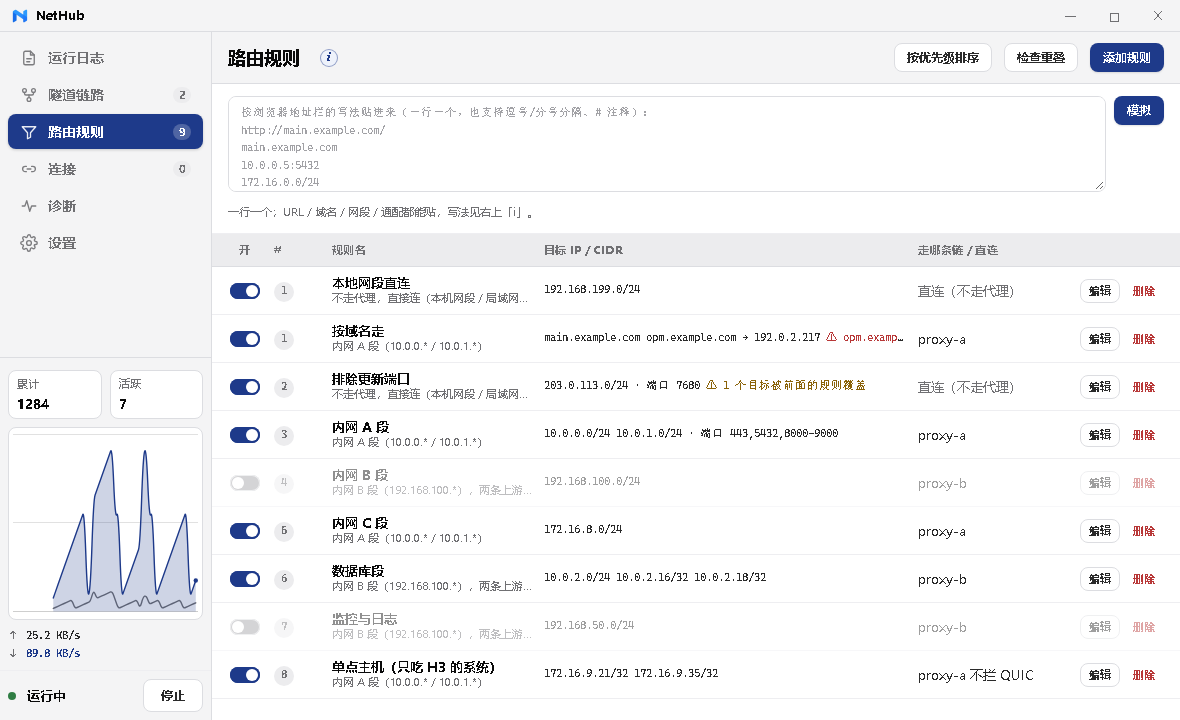
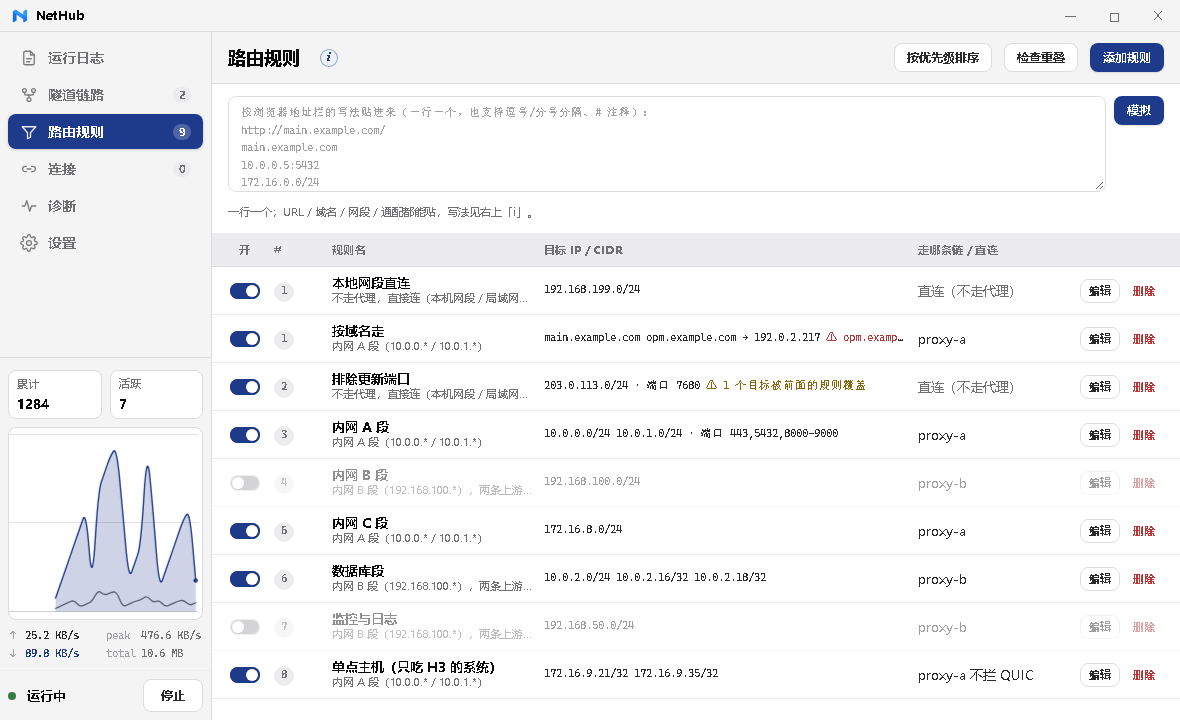
流量图：抄 Clash Verge 的滑入动画 + 读数补 peak/total
调研（clash-verge-rev 的 traffic-graph.tsx）：它顺滑的核心**不是插值**——
两边都是"过中点的二次贝塞尔"。差别是三条：
  1) 每 1 秒 push 一个点后，用 canvas.animate() 把整块画布平移一格（150ms，合成器上跑）；
  2) 30 点 / 310px = 每格 10px（我们 60 点 / 190px = 3px，密 3 倍）；
  3) 只画线、线宽 4px、无面积填充。

按用户要求只抄第 1 条：

- 画布 CSS 宽 = 容器内容宽 × (slots+1)/slots（多出的一格是"新点滑进来的入口"），
  由 .side-spark 的 overflow:hidden 裁掉；绘制时最新点贴 plotW，动画把它左移一格后
  正好落在可见区右边缘 —— 与 Verge 的坐标推导一致。
- slideTraffic()：cancel 上一拍（fill:forwards 被取消后 transform 回到 0，画面才连续）→
  重画 → animate 0 → -1 格、260ms linear。
- 托盘冻结时自己 cancel（WAAPI 不受 html.is-tray 的 CSS animation:none 管）；
  prefers-reduced-motion 下不播。
- TRAFFIC_DOT_MERGE = 2：每 2 个采样合成一个点（取 max，峰值不被平均掉）——
  不然每格只有 3px，动画几乎看不出来。改回 1 就是 60 点原始粒度。

读数从 2 槽改成 2×2：左列 ↑/↓（此刻速率），右列 peak/total（本窗口单秒峰值 / 窗口内收发合计）。
四个数值各带 id、JS 只改文本（innerHTML 重建会让定宽列每拍重排）。

门禁同步：
- "方形"改成量图框（.side-spark）—— 画布**刻意**比图框宽一格，钉画布会误报；
- 读数断言改成 4 槽 + 2×2 几何；读数不再用 innerHTML 覆盖（那会把 4 槽压回 2 槽）；
- .side/.side-dash/.side-spark 补 min-width:0 —— 画布多一格会通过 flex item 的
  auto min-width 把整条侧栏撑到 500+ px（这次踩到了）。

Changed region(s): [[0.0305, 0.6111, 0.1831, 0.9167], [0.0915, 0.8861, 0.1525, 0.9167]]

diff --git a/frontend/app.js b/frontend/app.js
@@ -717,6 +717,11 @@ function setTargetProbing(on, count) {
 // 纵轴一格 = 256 KB/s（不写刻度字）：线不是用来读精确值的，是让"这段比刚才忙"一眼可见。
 // 现场日常几百 K，所以平时就是"0 + 一条"两行线；峰值超过 4 格就把步长翻倍（条数封在 5 条以内）。
 const TRAFFIC_STEP = 256 * 1024;
+// 每个可见点合并几个采样。
+//   1 = 60 点 / 60 秒（原始粒度）—— 每格只有约 3px，滑入动画几乎看不出来；
+//   2 = 30 点 / 60 秒 —— 和 Clash Verge 同密度（它 30 点、每格 10px），每格约 6px，
+//       动画才看得出"在走"，曲线也更平。合并取**最大值**：峰值不许被平均掉。
+const TRAFFIC_DOT_MERGE = 2;
 let trafficView = null;
 let trafficBusy = false;
 
@@ -729,14 +734,21 @@ async function loadTraffic() {
     const v = await call('GetTraffic');
     if (!v) return;
     trafficView = v;
-    drawTraffic();
-    const rate = document.getElementById('trafficRate');
-    if (rate) {
-      // 槽内是「箭头列（定宽）+ 数字列（左对齐）」——箭头位置和数字起始位都不随位数变
-      //（归零时 fmtRate 给“—”也不会把箭头往右拉）。**上行在上、下行在下**（用户要求颠倒）。
-      rate.innerHTML = '<span class="tr-up"><i>↑</i><b>' + fmtRate(trafficLast(v).up) + '</b></span>' +
-                       '<span class="tr-down"><i>↓</i><b>' + fmtRate(trafficLast(v).down) + '</b></span>';
+    drawTraffic(true);          // true = 数据推进一步，画完播一格滑入动画
+    const last = trafficLast(v);
+    // 这张图窗口内的两个汇总（与图同源，读图就能对上）：
+    //   peak  = 单秒最大速率（上下行取大者）；total = 窗口内收发合计。
+    let peak = 0, total = 0;
+    for (const p of (v.series || [])) {
+      const pt = trafficPoint(p, !!v.countDirect);
+      peak = Math.max(peak, pt.up, pt.down);
+      total += pt.up + pt.down;
     }
+    // 只改文本、不重建 DOM：定宽列每拍重排会抖（箭头/标签位置都不许动）。
+    setText('rateUp', fmtRate(last.up));
+    setText('rateDown', fmtRate(last.down));
+    setText('ratePeak', fmtRate(peak));
+    setText('rateTotal', fmtBytes(total));
   } catch (e) {
     /* 老桥/探针没这个方法：图留白就好，不报错（与 InitialTheme 同样处理） */
   } finally {
@@ -770,12 +782,47 @@ function trafficColor(name, fallback) {
   return v || fallback;
 }
 
-function drawTraffic() {
+/* 滑入动画（抄 Clash Verge 的做法）：画布**比容器宽一格**，
+   每来一拍就把整块往左滑一格（150~260ms）—— 新点从右边缘滑进来，而不是整条瞬间重画。
+   为什么是它：Verge 顺滑的核心不是插值（我们两边都是"过中点二次贝塞尔"），
+   而是这条合成器上的平移动画。**不要**改成每帧重绘，那会把 CPU 从"每秒一次"变成"每秒 60 次"。 */
+let trafficAnim = null;
+function slideTraffic(cv, slots, animate) {
+  // 上一拍的动画先收掉：fill:forwards 被 cancel 后 transform 回到 0，接着这次重画才是连续的一帧
+  if (trafficAnim) { try { trafficAnim.cancel(); } catch (e) {} trafficAnim = null; }
+  if (!animate || !cv || typeof cv.animate !== 'function') return;
+  if (trayFrozen) return;                                   // 托盘里没人看（WAAPI 不受 is-tray 的 CSS 影响，得自己停）
+  try {
+    if (window.matchMedia && window.matchMedia('(prefers-reduced-motion: reduce)').matches) return;
+  } catch (e) { /* 老引擎没有 matchMedia：照常动 */ }
+  const pct = 100 / (slots + 1);                            // 正好一格（画布共 slots+1 格）
+  trafficAnim = cv.animate(
+    [{ transform: 'translateX(0)' }, { transform: 'translateX(-' + pct + '%)' }],
+    { duration: 260, easing: 'linear', fill: 'forwards' }
+  );
+}
+
+function drawTraffic(animate) {
   const cv = document.getElementById('trafficCanvas');
   const v = trafficView;
   if (!cv || !v) return;
-  const w = cv.clientWidth, h = cv.clientHeight;
-  if (!w || !h) return; // 顶栏还没布局出来（很短的启动窗口）
+  const h = cv.clientHeight;
+  if (!h) return; // 还没布局出来（很短的启动窗口）
+
+  // 画布 CSS 宽 = 容器内容宽 × (slots+1)/slots：多出的一格是"新点滑进来的入口"，
+  // 由 .side-spark 的 overflow:hidden 裁掉。
+  // 可见格数 = 窗口秒数 / 合并比（merge=2 时 60 秒 → 30 格）
+  const slots = Math.max(Math.ceil(Math.max(Number(v.window) || 0, 2) / TRAFFIC_DOT_MERGE), 2);
+  const box = cv.parentElement;
+  if (box) {
+    const cs = getComputedStyle(box);
+    // clientWidth **已经排除边框**（= 内容 + padding），所以这里只扣 padding，别再扣 border 一次
+    const inner = box.clientWidth - parseFloat(cs.paddingLeft) - parseFloat(cs.paddingRight);
+    const cssW = Math.max(60, Math.round(inner * (slots + 1) / slots));
+    if (cv.style.width !== cssW + 'px') cv.style.width = cssW + 'px';
+  }
+  const w = cv.clientWidth;
+  if (!w) return;
   const dpr = window.devicePixelRatio || 1;
   const pw = Math.round(w * dpr), ph = Math.round(h * dpr);
   if (cv.width !== pw || cv.height !== ph) { cv.width = pw; cv.height = ph; }
@@ -795,7 +842,8 @@ function drawTraffic() {
   const zeroY = Math.round(h - DOT_R - 0.6) - 0.5;
   const topY = Math.min(DOT_R + 0.4, zeroY - 8);
 
-  const pts = (v.series || []).map((p) => trafficPoint(p, !!v.countDirect));
+  const rawPts = (v.series || []).map((p) => trafficPoint(p, !!v.countDirect));
+  const pts = mergeTraffic(rawPts, TRAFFIC_DOT_MERGE);
 
   // 纵轴：一格 = TRAFFIC_STEP，上限取到整数格（**不按峰值自适应** ——
   // 峰值跟上限走的话线数永远不变，"线变多"就表达不出"流量涨了"）。
@@ -812,8 +860,9 @@ function drawTraffic() {
   // 旧写法是曲线画到 w、点画在 w-DOT_R 上 —— 点比线末端偏左 2.2px，
   // 值上下跳的时候一眼就看出"点没长在线上"（2026-11-27 用户报的）。
   const plotW = w - DOT_R;
-  const slots = Math.max(Number(v.window) || pts.length, 2);
-  const step = plotW / (slots - 1);
+  // 画布宽 = (slots+1) 格，所以一格 = plotW/(slots+1)；绘制时最新点贴在 plotW 上，
+  // 动画把整块左移一格后，它正好落到可见区的右边缘。
+  const step = plotW / (slots + 1);
   const xOf = (i) => plotW - (pts.length - 1 - i) * step;
   const yOf = (val) => zeroY - Math.min(Number(val) || 0, max) / max * (zeroY - topY);
 
@@ -867,6 +916,29 @@ function drawTraffic() {
   g.arc(plotW, yOf(pts[pts.length - 1].down), DOT_R, 0, Math.PI * 2);
   g.fillStyle = colDown;
   g.fill();
+
+  // 画完再滑：内容已经是"新的一帧"，动画负责把观众的视线从上一格带过去。
+  slideTraffic(cv, slots, animate);
+}
+
+/* 把窗口内的原始采样按 n 个一组合并（取上下行最大值）——用于让"每格"更宽、曲线更平。 */
+function mergeTraffic(pts, n) {
+  if (!(n > 1) || pts.length <= n) return pts;
+  const out = [];
+  // 从**最新**往回分组，保证最后一点永远是"刚刚这一秒"，不会因为窗口长度不是整数倍而错位
+  for (let end = pts.length; end > 0; end -= n) {
+    const from = Math.max(0, end - n);
+    let up = 0, down = 0;
+    for (let i = from; i < end; i++) { up = Math.max(up, pts[i].up); down = Math.max(down, pts[i].down); }
+    out.unshift({ up, down });
+  }
+  return out;
+}
+
+/* 只改一个元素的文本（不存在就跳过）：流量读数每拍都要刷，innerHTML 重建会让定宽列重排。 */
+function setText(id, txt) {
+  const e = document.getElementById(id);
+  if (e) e.textContent = txt;
 }
 
 /* canvas 不认 color-mix：把 --ink 换算成"固定透明度的墨色"（style.css 里是 #0a0a0a / #fafafa）。 */
@@ -3086,6 +3158,8 @@ function freezeForTray() {
   if (trayFrozen) return;
   trayFrozen = true;
   document.documentElement.classList.add('is-tray');
+  // 流量图那条滑入动画是 Web Animations（不受 html.is-tray 的 `animation:none` 管），自己收掉
+  if (trafficAnim) { try { trafficAnim.cancel(); } catch (e) {} trafficAnim = null; }
   pauseLoops();
 }
 

diff --git a/frontend/style.css b/frontend/style.css
@@ -222,6 +222,9 @@ code, .mono { font-family: var(--font-mono); }
 .side {
   flex: 0 0 var(--side-w);
   display: flex; flex-direction: column;
+  /* min-width:0 必须写：作为 flex item 的 auto 最小宽度会等于内容最小宽度，
+     而流量画布是**故意比容器宽一格**的（滑入动画），不写就会被它撑到 500+ px。 */
+  min-width: 0;
   min-height: 0;
   border-right: 1px solid var(--hairline);
   background: var(--canvas-soft);
@@ -268,6 +271,7 @@ code, .mono { font-family: var(--font-mono); }
 .side-dash {
   margin-top: auto;
   display: flex; flex-direction: column; gap: var(--s2);
+  min-width: 0;                    /* 同上：别让里面的画布把这一列撑开 */
   padding: var(--s3) var(--s2) var(--s2);
   border-top: 1px solid var(--hairline);
 }
@@ -287,19 +291,35 @@ code, .mono { font-family: var(--font-mono); }
 .side-spark {
   width: 100%; height: 120px;      /* 兜底高度：JS 没跑起来（或还没布局）时不至于塌成一条 */
   display: flex; padding: 4px;
+  /* 画布比容器**宽一格**（见 app.js 的滑入动画）：多出来的那格必须裁掉 */
+  overflow: hidden;
+  min-width: 0;
   background: var(--card); border: 1px solid var(--hairline); border-radius: var(--r-input);
 }
-.side-spark > canvas { flex: 1 1 0; min-width: 0; width: 100%; height: 100%; display: block; }
+/* 宽度由 app.js 按 slots 算好写进 style.width（= 容器内容宽 × (slots+1)/slots），
+   这里**不能**写 flex:1 或 width:100% —— 那会把多出来的一格又压回去，动画就没内容可滑了。 */
+.side-spark > canvas { flex: 0 0 auto; min-width: 0; height: 100%; display: block; }
 
-/* 速率读数：上行在上、下行在下（每行「箭头列 + 数字列」，箭头位置不随位数变） */
+/* 速率读数：2×2 —— 左列 ↑/↓（此刻速率，上行在上）、右列 peak/total（本窗口峰值与合计）。
+   两列各自「标签列定宽 + 数字列左对齐」：位数变了、标签长短不同（peak/total），
+   数字的起始位都不动。 */
 .side-rate {
-  display: flex; flex-direction: column; gap: 1px; padding: 0 2px;
+  display: grid;
+  grid-template-columns: auto auto;
+  justify-content: space-between;
+  column-gap: var(--s2); row-gap: 1px;
+  padding: 0 2px;
   font-family: var(--font-mono); font-size: var(--fs-xs); color: var(--muted);
   white-space: nowrap;
 }
-.side-rate span { display: inline-flex; align-items: center; gap: 6px; }
-.side-rate i { flex: 0 0 auto; width: 10px; font-style: normal; color: var(--muted); }
-.side-rate b { font-weight: 600; font-variant-numeric: tabular-nums; text-align: left; }
+.side-rate span { display: inline-flex; align-items: center; gap: 5px; min-width: 0; }
+.side-rate i { flex: 0 0 auto; font-style: normal; color: var(--muted-soft); }
+.side-rate .tr-up i, .side-rate .tr-down i { width: 10px; }        /* ↑ ↓ */
+.side-rate .tr-peak i, .side-rate .tr-total i { width: 5ch; }      /* peak / total 定宽 → 数字起点对齐 */
+.side-rate b {
+  font-weight: 600; font-variant-numeric: tabular-nums; text-align: left;
+  min-width: 0; overflow: hidden; text-overflow: ellipsis;
+}
 /* 下行主色（与曲线同色）、上行中性色 —— 不拿警告色画数据 */
 .side-rate .tr-up b { color: var(--body); }
 .side-rate .tr-down b { color: var(--primary); }

diff --git a/frontend/index.html b/frontend/index.html
@@ -73,7 +73,14 @@
       <!-- 底/边由这层 div 承载，canvas 只画曲线：drawTraffic 用 clientWidth/clientHeight 定画布，
            内边距写在 canvas 上会把曲线画到边框底下 -->
       <div class="side-spark" id="sparkBox"><canvas id="trafficCanvas" aria-label="实时流量曲线"></canvas></div>
-      <div class="side-rate" id="trafficRate"><span class="tr-up"><i>↑</i><b>—</b></span><span class="tr-down"><i>↓</i><b>—</b></span></div>
+      <!-- 读数 2×2：左列 ↑/↓（此刻速率）、右列 peak/total（这张图窗口里的峰值与合计）。
+           为什么四个数值槽各自带 id、由 JS 只改文本：innerHTML 重建会让定宽列每拍重排。 -->
+      <div class="side-rate" id="trafficRate">
+        <span class="tr-up"><i>↑</i><b id="rateUp">—</b></span>
+        <span class="tr-peak"><i>peak</i><b id="ratePeak">—</b></span>
+        <span class="tr-down"><i>↓</i><b id="rateDown">—</b></span>
+        <span class="tr-total"><i>total</i><b id="rateTotal">—</b></span>
+      </div>
     </div>
 
     <!-- 引擎行：常驻可见、不折叠。
